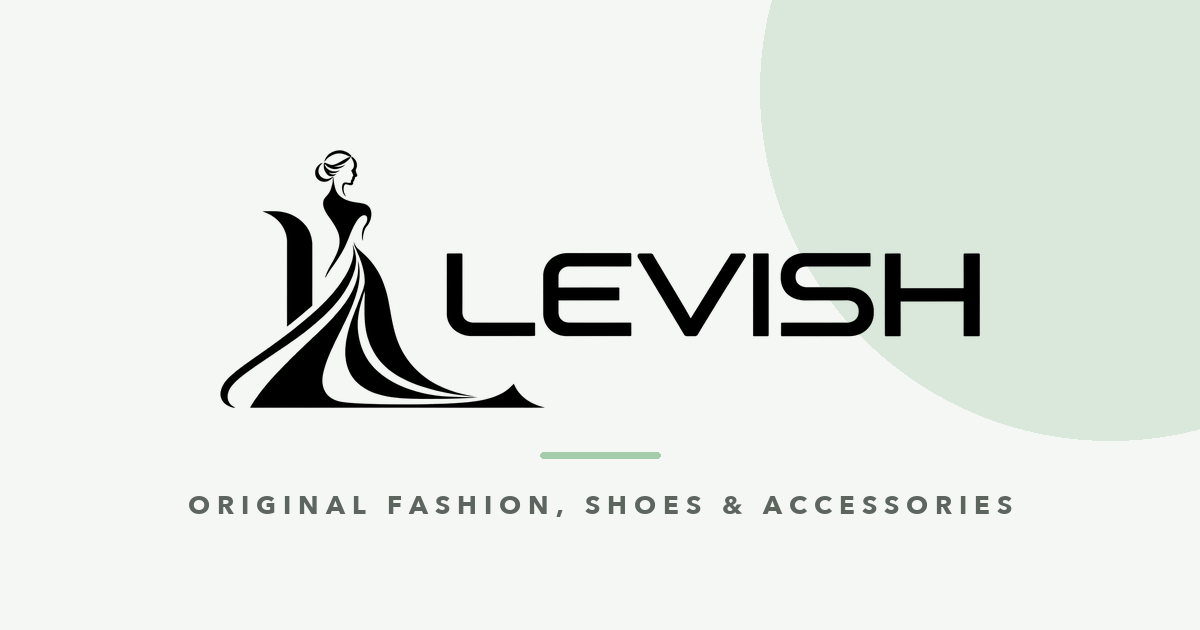
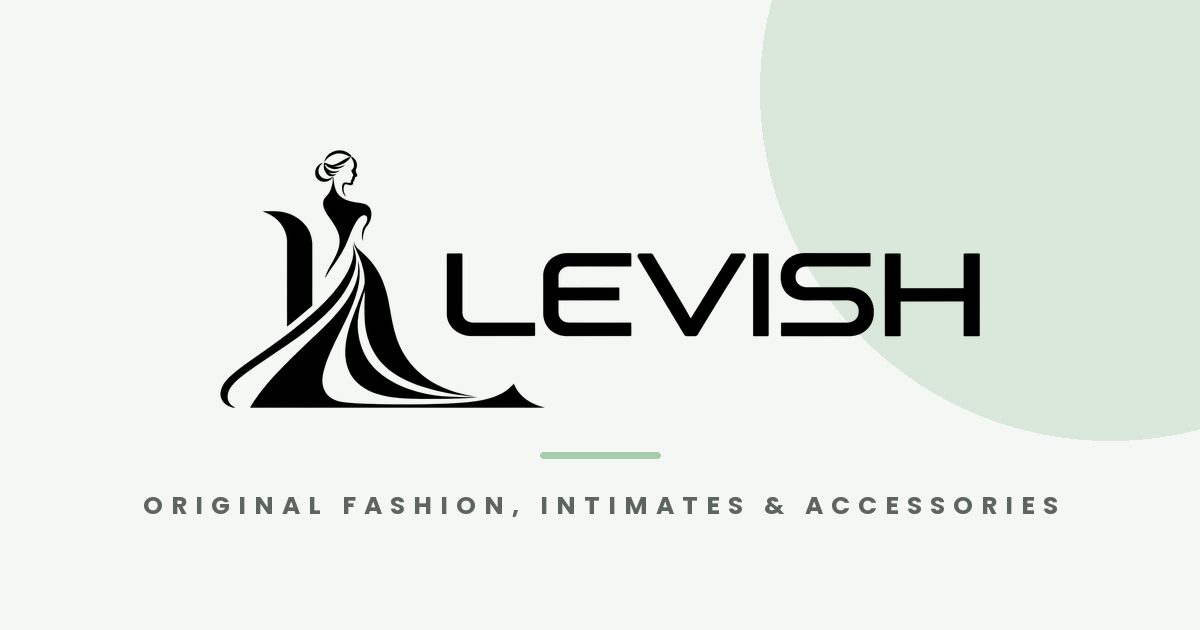
Share image tagline: intimates instead of shoes

Changed region(s): [[0.1233, 0.7841, 0.8942, 0.8143]]

diff --git a/src/lib/site.ts b/src/lib/site.ts
@@ -10,10 +10,10 @@ export const SITE_DESCRIPTION =
 
 // Link preview for shared pages. Page metadata replaces the root openGraph object, so pages repeat it.
 export const SHARE_IMAGE = {
-  url: "/og.png?v=5",
+  url: "/og.png?v=6",
   width: 1200,
   height: 630,
-  alt: "Levish – original men's and women's fashion",
+  alt: "Levish – original fashion, intimates & accessories",
 };
 
 export function absoluteUrl(path: string) {

diff --git a/src/lib/seo.ts b/src/lib/seo.ts
@@ -90,7 +90,7 @@ export function siteGraphJsonLd() {
         "@id": `${SITE_URL}/#store`,
         name: SITE_NAME,
         url: SITE_URL,
-        image: absoluteUrl("/og.png?v=5"),
+        image: absoluteUrl("/og.png?v=6"),
         currenciesAccepted: "PKR",
         paymentAccepted: "Cash, Credit Card",
         areaServed: "PK",
